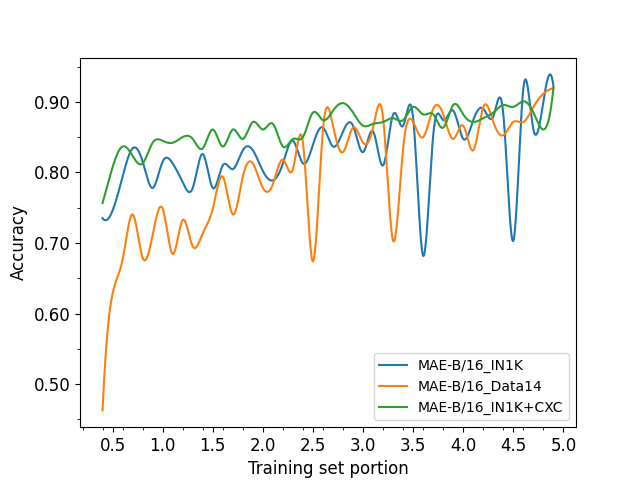
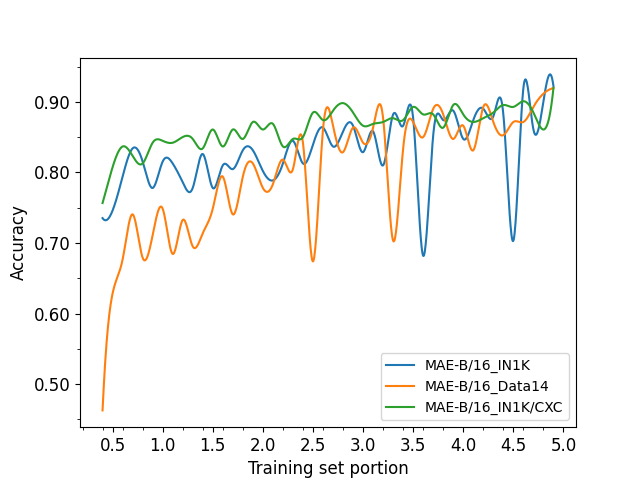
update

Changed region(s): [[0.6562, 0.75, 0.875, 0.875]]

diff --git a/main_pretrain_ddp.py b/main_pretrain_ddp.py
@@ -18,11 +18,10 @@ import time
 from pathlib import Path
 import wandb
 import torch
-from loguru import logger
 import torch.backends.cudnn as cudnn
 from torch.utils.tensorboard import SummaryWriter
 import torchvision.transforms as transforms
-from datasets.covid_ct_dataset import COVID_CT_Dataset
+# from datasets.covid_ct_dataset import COVID_CT_Dataset
 
 import torch.distributed as dist
 from torch.nn.parallel import DistributedDataParallel as DDP

diff --git a/scripts/linechart/datasplit_vary/linechart_compare_gap_large.py b/scripts/linechart/datasplit_vary/linechart_compare_gap_large.py
@@ -196,7 +196,7 @@ xy_s2 = smooth_xy(x_values,acc_orig_data14large)
 xy_s3 = smooth_xy(x_values,acc_orig_cxclarge)
 plt.plot(xy_s1[0],xy_s1[1],label='MAE-L/16_IN1K')
 plt.plot(xy_s2[0],xy_s2[1],label='MAE-L/16_Data14')
-plt.plot(xy_s3[0],xy_s3[1],label='MAE-L/16_IN1K+CXC')
+plt.plot(xy_s3[0],xy_s3[1],label='MAE-L/16_IN1K/CXC')
 # plt.plot(x_values,acc_sani_cxclarge,label='U_sani')
 plt.legend()
 # plt.title('CXClarge',fontsize=14)

diff --git a/scripts/linechart/datasplit_vary/linechart_compare_gap_base.py b/scripts/linechart/datasplit_vary/linechart_compare_gap_base.py
@@ -426,7 +426,7 @@ xy_s2 = smooth_xy(x_values,acc_orig_data14base)
 xy_s3 = smooth_xy(x_values,acc_orig_cxcbase)
 plt.plot(xy_s1[0],xy_s1[1],label='MAE-B/16_IN1K')
 plt.plot(xy_s2[0],xy_s2[1],label='MAE-B/16_Data14')
-plt.plot(xy_s3[0],xy_s3[1],label='MAE-B/16_IN1K+CXC')
+plt.plot(xy_s3[0],xy_s3[1],label='MAE-B/16_IN1K/CXC')
 # plt.plot(x_values,acc_sani_cxcbase,label='U_sani')
 plt.legend()
 # plt.title('CXCbase',fontsize=14)
